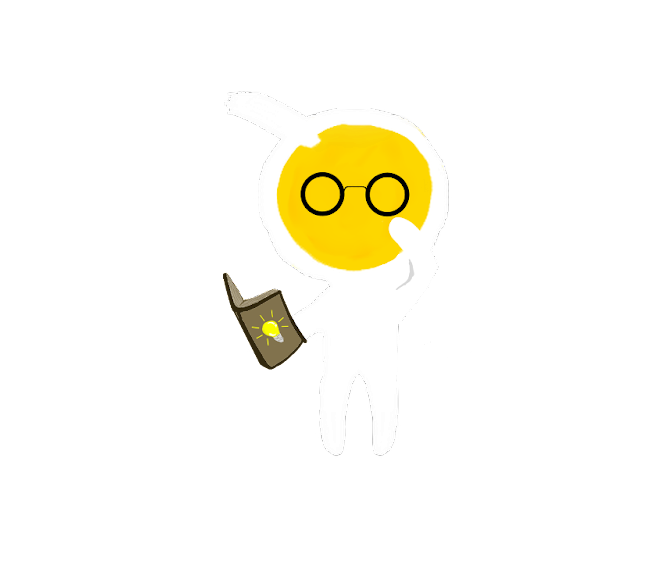
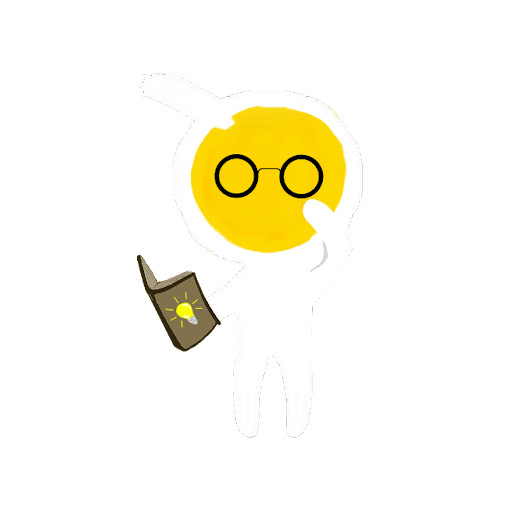
position

Changed region(s): [[0.3616, 0.1818, 0.6629, 0.4848], [0.2411, 0.4545, 0.4821, 0.6667], [0.6026, 0.4545, 0.6328, 0.5152]]

diff --git a/thecuties.html b/thecuties.html
@@ -30,27 +30,6 @@
         <small>smallsmall</small> -->
       </p>
     </center>
-    <!--game-->
-    <div class="game">
-      <table>
-        <td>
-          <img class="qsee" src="qseee-modified.png" height="200px" />
-        </td>
-        <td>
-          <a href="game.html"><h3>game</h3></a>
-        </td>
-      </table>
-    </div>
-    <div class="psychological">
-      <table>
-        <td>
-          <a href="psychological.html"><h3>pyschological report</h3></a>
-        </td>
-        <td>
-          <img class="qsee" src="qseeee.png" height="200px" />
-        </td>
-      </table>
-    </div>
     <div class="gaze">
       <table>
         <td>
@@ -61,6 +40,28 @@
         </td>
       </table>
     </div>
+    <!--game-->
+    <div class="game">
+      <table>
+        <td>
+          <a href="game.html"><h3>game</h3></a>
+        </td>
+        <td>
+          <img class="qsee" src="qseee-modified.png" height="200px" />
+        </td>
+      </table>
+    </div>
+    <div class="psychological">
+      <table>
+        <td>
+          <img class="qsee" src="qseeee.png" height="200px" />
+        </td>
+        <td>
+          <a href="psychological.html"><h3>pyschological report</h3></a>
+        </td>
+      </table>
+    </div>
+
     <!--detail/link-->>
     <a
       href="https://docs.google.com/spreadsheets/d/1s2bgLh0udVfAgH3s-qAqatL4eqN0pGXjtSTXrZdSzFg/edit?usp=sharing"

diff --git a/css/main.css b/css/main.css
@@ -32,15 +32,15 @@ hr {
 .qsee {
   color: mintcream;
 }
-.game{
+.gaze{
   margin-left: 20%;
   background-color: #26abfd;
 }
-.psychological{
-  margin-left: 55%;
+.game{
+  margin-left: 60%;
   background-color: #26abfd;
 }
-.gaze{
+.psychological{
   margin-left: 20%;
   background-color: #26abfd;
 }
